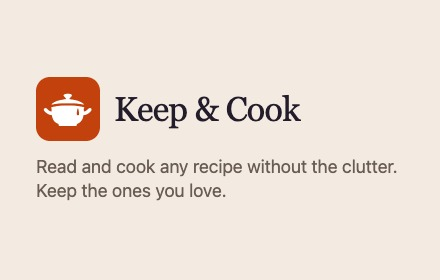
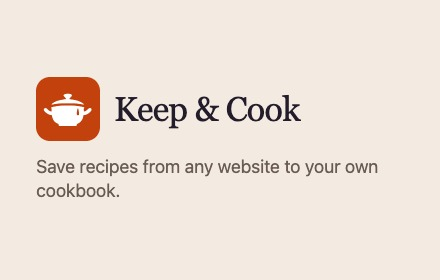
Position the extension as the way into the library
Save to my recipes is the panel's primary action with a free-account hint;
store name, summary, description and screenshots lead with the cookbook.
Screenshots use Unsplash food photos and the real library components.

Changed region(s): [[0.0886, 0.5714, 0.9159, 0.6286], [0.0591, 0.6571, 0.5023, 0.7143]]

diff --git a/extension/sidepanel.html b/extension/sidepanel.html
@@ -27,7 +27,8 @@
           <p id="meta" class="recipe-meta"></p>
           <p id="description" class="description"></p>
           <p id="partial-warning" class="notice" hidden>This recipe may be incomplete. Review it before saving.</p>
-          <div class="actions"><button id="cook" class="primary">Start cooking <span aria-hidden="true">→</span></button><button id="save" class="secondary">Save</button></div>
+          <div class="actions"><button id="save" class="primary">Save to my recipes</button><button id="cook" class="secondary">Start cooking <span aria-hidden="true">→</span></button></div>
+          <p class="save-hint">Free account · your recipes on any device</p>
           <div id="save-feedback" class="save-feedback" role="status" aria-live="polite" hidden></div>
           <section class="recipe-section"><div class="section-heading"><h2>Ingredients</h2><span id="ingredient-count" class="section-count"></span></div><ul id="ingredients" class="ingredient-list"></ul></section>
           <section id="method" class="recipe-section"><h2>Method</h2><ol id="steps" class="step-list"></ol></section>

diff --git a/extension/styles.css b/extension/styles.css
@@ -54,6 +54,8 @@ h2 { margin: 0; font-size: 13px; font-weight: 800; letter-spacing: .02em; }
 .primary:hover { border-color: hsl(var(--primary-hover)); background: hsl(var(--primary-hover)); }
 .secondary { border: 1px solid hsl(var(--border)); color: hsl(var(--foreground)); background: hsl(var(--card)); }
 .secondary:hover { background: hsl(var(--muted)); }
+#save { justify-content: center; }
+.save-hint { margin: 8px 0 0; color: hsl(var(--muted-foreground)); font-size: 12px; }
 .save-feedback { margin-top: 14px; padding: 12px 14px; border: 1px solid hsl(var(--border)); border-radius: 10px; background: hsl(var(--muted) / .45); color: hsl(var(--foreground)); font-size: 12px; line-height: 1.45; }
 .save-feedback a { display: inline-flex; align-items: center; min-height: 44px; font-weight: 700; }
 .recipe-section { margin-top: 27px; padding-top: 24px; border-top: 1px solid hsl(var(--border)); }

diff --git a/docs/chrome-web-store.md b/docs/chrome-web-store.md
@@ -10,9 +10,11 @@
 
 ## Store listing
 
-**Name** (из manifest): Keep & Cook — Recipe Companion
+**Позиционирование.** Расширение — вход в библиотеку Keep & Cook, а не самостоятельная «читалка». Главное обещание: «сохрани рецепт с любого сайта в свою кулинарную книгу». Чистый вид и режим готовки — то, что пользователь получает сразу, без аккаунта. В панели главная кнопка «Save to my recipes», под ней подпись «Free account · your recipes on any device». Будущий Pro в листинге не обещаем: он появится внутри библиотеки, куда листинг и ведёт.
 
-**Summary** (из manifest, ≤132): Read, cook, download, and keep recipes from the page you are visiting.
+**Name** (из manifest): Keep & Cook — Recipe Saver & Cookbook
+
+**Summary** (из manifest, ≤132): Save recipes from any website to your own cookbook. Clean recipe view and step-by-step cooking mode, free.
 
 **Category:** Lifestyle → Household (если появится Food & Drink — она).
 
@@ -21,26 +23,36 @@
 **Description:**
 
 ```
-Recipe pages are long. Keep & Cook shows just the recipe, right beside the page, and saves the ones you love to your own recipe library.
+Save recipes from any website to your own cookbook.
 
-Click the Keep & Cook icon on any recipe site and a side panel opens with the ingredients and steps — no life story, no pop-ups, no ads in the way.
+Found a recipe you want to keep? Click the Keep & Cook icon, then "Save to my recipes". It goes into your free Keep & Cook cookbook, together with every other recipe you have saved, with a link back to the original.
 
-• Read: ingredients and steps in a clean side panel, next to the original page.
-• Check off: tick ingredients as you gather them.
-• Cook: a full-window cooking view with large text, one step at a time, step timers, and the screen kept on.
-• Download: save the recipe as a plain text file. No account needed.
-• Keep: send the recipe to your free Keep & Cook library (keepandcook.com) to review, edit and save. Your library works on your phone as an app, even offline.
+Your cookbook
+• All your recipes in one place, with photos, ingredients and steps.
+• Search them, and sort them into collections like Breakfast or Dinner.
+• Edit any recipe, or add your own family recipes by hand.
+• On your phone too: add Keep & Cook to your home screen. Your recipes are there even offline.
+
+Right on the recipe page
+• A clean side panel with just the ingredients and steps: no life story, no pop-ups, no ads in the way.
+• Cooking mode: large text, one step at a time, step timers, and the screen stays on.
+• Download the recipe as a text file. Reading, cooking and downloading need no account.
 
 Privacy first
-The extension reads a page only when you click its icon on that page. It has no access to the sites you browse otherwise. No analytics, no tracking, no ads. Reading, cooking and downloading work without an account.
+The extension reads a page only when you click its icon on that page. It has no access to the sites you browse otherwise. No analytics, no tracking, no ads.
 
-Works on most recipe sites that publish structured recipe data, which is the large majority. If a page has none, the extension asks Keep & Cook to read that public page for you.
+Works on most recipe sites that publish structured recipe data. If a page has none, Keep & Cook reads that public page for you.
 ```
 
-**Graphics:** `docs/store/`
-- Screenshots 1280×800: `1-panel.jpg` (панель рецепта), `2-cook-mode.jpg` (режим готовки), `3-library.jpg` (рецепт сохранён в библиотеку)
-- Small promo tile 440×280: `promo-tile-440x280.jpg`
-- Icon 128×128: `extension/icons/icon-128.png`
+**Graphics:** `docs/store/`, в этом порядке:
+1. `1-save.jpg`: сайт с рецептом и панель, акцент на «Save to my recipes».
+2. `2-library.jpg`: библиотека на компьютере, «Recipe saved to your library».
+3. `3-phone.jpg`: библиотека и рецепт на телефоне (PWA).
+4. `4-cook-mode.jpg`: режим готовки.
+- Small promo tile 440×280: `promo-tile-440x280.jpg`.
+- Icon 128×128: `extension/icons/icon-128.png`.
+
+Фото еды на скриншотах взяты с Unsplash (лицензия Unsplash, коммерческое использование без указания автора): GyV6SL_fKsI, Bs_4ce9_w0I, 7ClANzfw6iU, gWkvURhoMlA, w0JzqJZYX_E, gZ7JK_wpFrY, HsSNbTSCdSs. Сайт «The Weeknight Table» и адреса `*.example` вымышлены.
 
 **Official URL / Homepage:** https://keepandcook.com
 **Support URL:** https://keepandcook.com/privacy (раздел Contact) или support-адрес

diff --git a/extension/README.md b/extension/README.md
@@ -28,7 +28,7 @@ The extension talks to production by default. To point it at `npm run dev`, with
 
 ## Workflow
 
-- The side panel header contains only the logo. The recipe card has **Start cooking** and **Save** actions, with a small **Download** link below the method. `Read this page` appears in the empty and error states. Save opens the website for review and closes the panel; it does not claim cloud saving is complete.
+- The side panel header contains only the logo. The recipe card has **Save to my recipes** (primary, with a "Free account" hint) and **Start cooking** actions, with a small **Download** link below the method. `Read this page` appears in the empty and error states. Save opens the website for review and closes the panel; it does not claim cloud saving is complete.
 - Read ingredients and instructions alongside the original website. Check off ingredients.
 - **Start cooking** opens a dialog over the entire source webpage, outside the side panel. It does not use browser fullscreen. If injection fails, a standalone extension tab opens with the same interface and actions. The panel closes after successful injection; **Close** or Escape restores the source webpage.
 - Navigation stays at the bottom of the viewport. Large instruction text fills the remaining space. Long steps are split into parts sized to the window, with **Continue step** before **Next step**. Arrow keys navigate. Ingredients open in a separate drawer. Screen wake lock is best effort.
